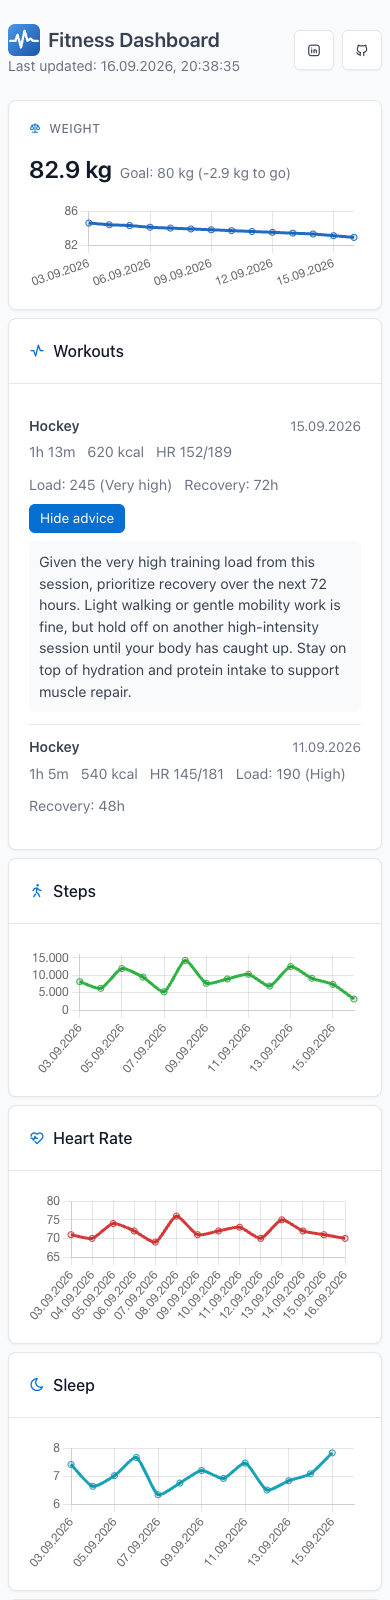
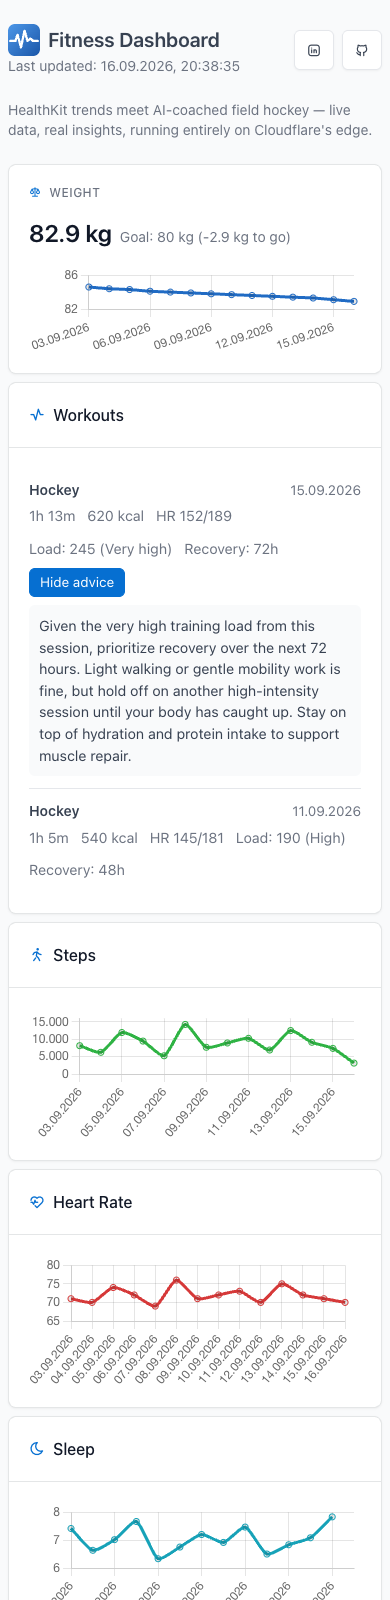
Add a tagline above the Weight section
Short lead-in describing what the dashboard does, before the first
card. Regenerated README screenshots to match.

diff --git a/public/index.html b/public/index.html
@@ -40,6 +40,9 @@
 
       <div class="page-body">
         <div class="container-xl">
+          <p class="text-secondary fs-4 mb-4">
+            HealthKit trends meet AI-coached field hockey — live data, real insights, running entirely on Cloudflare's edge.
+          </p>
           <div class="row row-deck row-cards">
 
             <div class="col-12">
